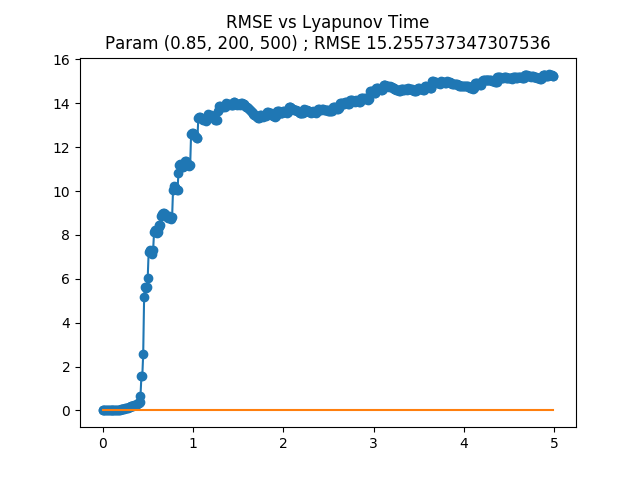
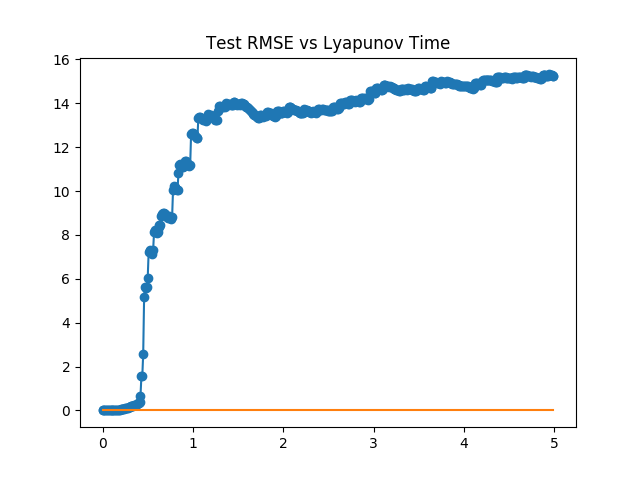
update plotnd generations

Changed region(s): [[0.1562, 0.0312, 0.875, 0.125]]

diff --git a/src/echonn/sys/system_solver.py b/src/echonn/sys/system_solver.py
@@ -174,7 +174,7 @@ class SystemSolver:
         plt.tight_layout()
         return fig
 
-    def plotnd(self, run=None, fig=None, figsize=None, legend=False, dims=None):
+    def plotnd(self, run=None, fig=None, figsize=None, legend=False, dims=None, overlay=True, title=None):
         """ warning legend=True is going to mess up the layout. The legend can be seen by the side of the mini graph. """
         run = self.get_last_run(run)
         sys_num = run['index']
@@ -182,7 +182,9 @@ class SystemSolver:
 
         if fig is None:
             max_rows = 8
-            num_plots = res.y.shape[0] + 1  # +1 for the overlay
+            num_plots = res.y.shape[0]
+            if overlay:
+                num_plots += 1
             rows = min(max_rows, num_plots)
             cols = max(1, math.ceil(num_plots/max_rows))
             if num_plots > max_rows:
@@ -193,8 +195,9 @@ class SystemSolver:
         else:
             fig = plt.figure(fig.number)
         plots = fig.get_axes()
-        overlay = plots[-1]
-        overlay.set_ylabel('overlay')
+        if overlay:
+            overlay_plt = plots[-1]
+            overlay_plt.set_ylabel('overlay')
         for i, y in enumerate(res.y):
             for _ in range(i+1):
                 plots[i].plot(res.t, y)  # TODO: fix this hack
@@ -204,8 +207,13 @@ class SystemSolver:
             else:
                 plots[i].set_ylabel(dims[i])
             label = 'sys {} dim {}'.format(sys_num, i)
-            overlay.plot(res.t, y, label=label)
-        if legend:
+            if overlay:
+                overlay_plt.plot(res.t, y, label=label)
+        if legend and overlay:
             overlay.legend()
-        plt.tight_layout()
+        if title is not None:
+            fig.suptitle(title)
+            fig.tight_layout(rect=[0, 0.03, 1, 0.95])
+        else:
+            plt.tight_layout()
         return fig

diff --git a/doc/paper/scripts/AnalyzeResultsDoubPend.py b/doc/paper/scripts/AnalyzeResultsDoubPend.py
@@ -34,13 +34,13 @@ slvr = SystemSolver(run['system'])
 runt = deepcopy(run)
 runt['results'].t = ts_data.t
 runt['results'].y = ts_data.y.T
-fig = slvr.plotnd(runt)
+fig = slvr.plotnd(runt, dims=['θ1', 'θ2', 'ω1', 'ω2'], overlay=False)
 plt.savefig(os.path.join(dir_pre, 'full_differential.png'))
 # plt.show(True)
 
 runt['results'].t = ts_data.test_t
 runt['results'].y = ds_test.T
-slvr.plotnd(runt)
+slvr.plotnd(runt, dims=['θ1', 'θ2', 'ω1', 'ω2'], overlay=False)
 plt.savefig(os.path.join(dir_pre, 'test_data.png'))
 sorter = np.flip(np.argsort(score))
 how_many = 5
@@ -52,8 +52,7 @@ for rank, i in enumerate(sorter[:how_many]):
                    for sub in range(ds_test.shape[0])]
 
     plt.figure()
-    plt.title('RMSE vs Lyapunov Time\nParam {} ; RMSE {}'.format(
-        results['params'][i], total_rmse))
+    plt.title('Test RMSE vs Lyapunov Time')
     t_adj = (ts_data.test_t - ts_data.test_t[0]) * lce[0]
     plt.plot(t_adj, rmse_over_t, 'o-')
     plt.plot(t_adj, np.zeros_like(t_adj))
@@ -63,7 +62,11 @@ for rank, i in enumerate(sorter[:how_many]):
 
     runt['results'].t = ts_data.test_t
     runt['results'].y = ys_test.T
-    slvr.plotnd(runt, dims=['θ1', 'θ2', 'ω1', 'ω2'])
+    title = 'ESN Trajectory | Param {} | Test RMSE {:.4}'
+    param_title = '(α:{}, N:{}, T0:{})'.format(*results['params'][i])
+    title = title.format(param_title, total_rmse)
+    slvr.plotnd(runt, dims=['θ1', 'θ2', 'ω1', 'ω2'],
+                title=title, overlay=False)
     name = 'rank_{}_param_{}_fit.png'.format(rank, i)
     plt.savefig(os.path.join(
         dir_pre, name))

diff --git a/doc/paper/scripts/AnalyzeResultsLorenz.py b/doc/paper/scripts/AnalyzeResultsLorenz.py
@@ -43,7 +43,7 @@ fig = slvr.plot3d(runt)
 plt.savefig(os.path.join(dir_pre, 'full_differential.png'))
 
 sorter = np.flip(np.argsort(score))
-how_many = 10
+how_many = 8
 for rank, i in enumerate(sorter[:how_many]):
     ds_test, ys_test, total_rmse = results['best model rmse'][i][3]
     print(i, total_rmse, results['params'][i])
@@ -52,8 +52,7 @@ for rank, i in enumerate(sorter[:how_many]):
                    for sub in range(ds_test.shape[0])]
 
     plt.figure()
-    plt.title('RMSE vs Lyapunov Time\nParam {} ; RMSE {}'.format(
-        results['params'][i], total_rmse))
+    plt.title('Test RMSE vs Lyapunov Time')
     t_adj = (ts_data.test_t - ts_data.test_t[0]) * lce[0]
     plt.plot(t_adj, rmse_over_t, 'o-')
     plt.plot(t_adj, np.zeros_like(t_adj))
@@ -71,8 +70,9 @@ for rank, i in enumerate(sorter[:how_many]):
     runt['results'].y = ys_test[score[i]:higher_score[i]].T
     slvr.plot3d(runt, fig)
     plt.legend(['actual', 'approximated', 'deviation'])
-    plt.title('Model Approximation\nParam {} ; RMSE {}'.format(
-        results['params'][i], total_rmse))
+    title = 'ESN Trajectory\nParam {}\nTest RMSE {:.4}'
+    param_title = '(α:{}, N:{}, T0:{})'.format(*results['params'][i])
+    plt.title(title.format(param_title, total_rmse))
     plt.tight_layout()
     name = 'rank_{}_param_{}_fit.png'.format(rank, i)
     plt.savefig(os.path.join(
